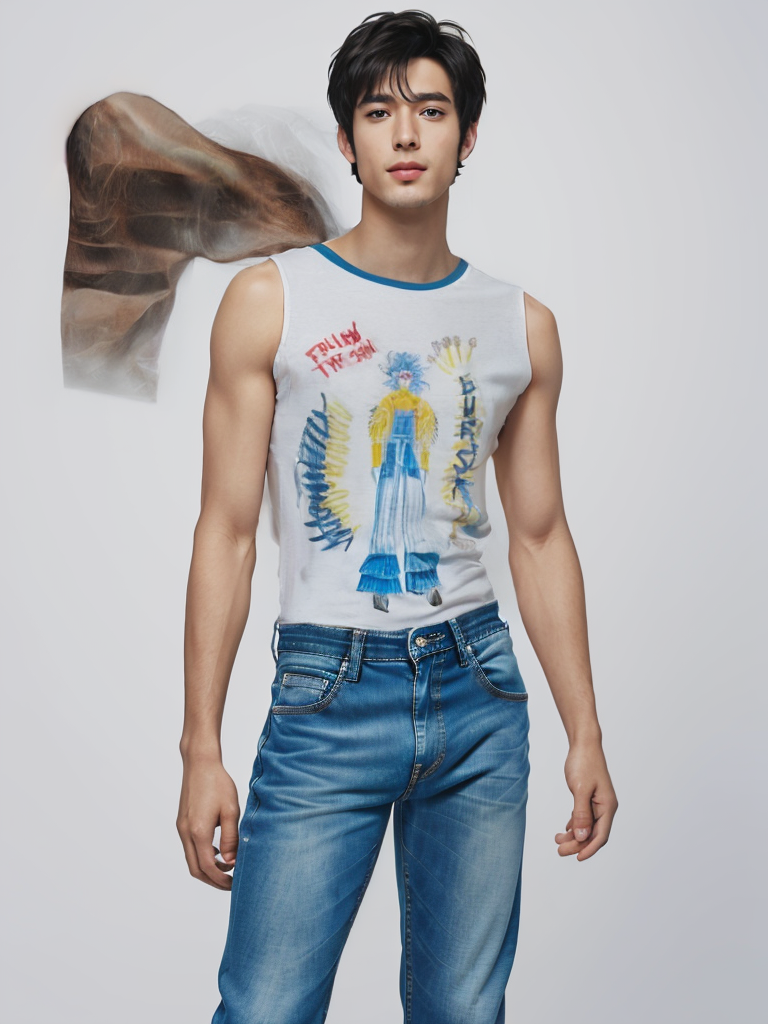
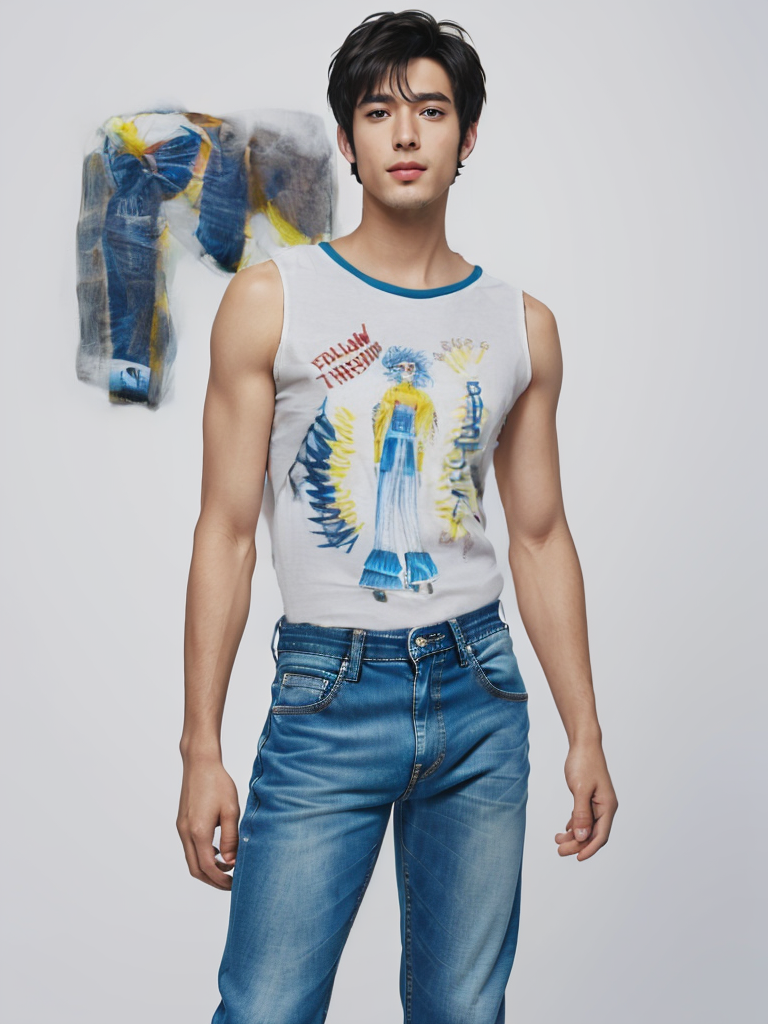
fix: spatial prior masking to eliminate background artifacts

Changed region(s): [[0.0625, 0.0625, 0.6875, 0.625], [0.4062, 0.5938, 0.4375, 0.625], [0.3438, 0.5938, 0.375, 0.625]]

diff --git a/wearcast/inference_wearcast_hd.py b/wearcast/inference_wearcast_hd.py
@@ -850,34 +850,67 @@ class WearCastHD:
         arms_draw_right = ImageDraw.Draw(im_arms_right)
 
         if category_norm in ('upper_body', 'dresses'):
-            # IMPORTANT: Calculate scale based on the actual height of model_parse (source image)
-            # instead of hardcoding 512.0. This fixes the pose-offset bug.
-            source_height = model_parse.height
-            scale_factor = height / float(source_height)
+            # IMPORTANT: pose_data is generated from a 1024px height image.
+            # model_parse was just resized to 512px height above.
+            # We MUST scale the 1024px pose coordinates down to the 512px mask space.
+            scale_factor = model_parse.height / 1024.0
+            
+            shoulder_right = np.multiply(tuple(pose_data[2][:2]), scale_factor)
+            shoulder_left  = np.multiply(tuple(pose_data[5][:2]), scale_factor)
+            elbow_right    = np.multiply(tuple(pose_data[3][:2]), scale_factor)
+            elbow_left     = np.multiply(tuple(pose_data[6][:2]), scale_factor)
+            wrist_right    = np.multiply(tuple(pose_data[4][:2]), scale_factor)
+            wrist_left     = np.multiply(tuple(pose_data[7][:2]), scale_factor)
+            neck           = np.multiply(tuple(pose_data[1][:2]), scale_factor)
+            hip_r          = np.multiply(tuple(pose_data[8][:2]), scale_factor)
+            hip_l          = np.multiply(tuple(pose_data[11][:2]), scale_factor)
             
             # ------------------------------------------------------------------
             # Torso-Centric Blob Filtering (BEFORE Dilation)
-            # Includes Morphological Opening to sever weak bridges to floating background objects
+            # Includes Spatial Prior Masking to physically sever thick background connections
             # ------------------------------------------------------------------
             if category_norm in ('upper_body', 'dresses'):
                 parse_mask_uint8 = (parse_mask > 0).astype(np.uint8)
                 
-                # Erode to break thin bridges between shirt and background noise
-                kernel_erode = np.ones((15, 15), np.uint8)
-                eroded_mask = cv2.erode(parse_mask_uint8, kernel_erode, iterations=1)
+                # --- 1. Create Spatial Prior Mask based on OpenPose Skeleton ---
+                spatial_prior = np.zeros_like(parse_mask_uint8)
+                
+                # If hips are missing, estimate them at the bottom of the image
+                h_r = hip_r if hip_r[0] > 1 else np.array([shoulder_right[0], model_parse.height])
+                h_l = hip_l if hip_l[0] > 1 else np.array([shoulder_left[0], model_parse.height])
+                
+                # Draw Torso Polygon
+                pts = np.array([neck, shoulder_right, h_r, h_l, shoulder_left], np.int32)
+                cv2.fillPoly(spatial_prior, [pts.reshape((-1, 1, 2))], 1)
+                
+                # Draw thick arms to protect sleeves
+                def draw_arm(p1, p2):
+                    if p1[0] > 1 and p2[0] > 1:
+                        cv2.line(spatial_prior, (int(p1[0]), int(p1[1])), (int(p2[0]), int(p2[1])), 1, thickness=20)
+                
+                draw_arm(shoulder_right, elbow_right)
+                draw_arm(elbow_right, wrist_right)
+                draw_arm(shoulder_left, elbow_left)
+                draw_arm(elbow_left, wrist_left)
+                
+                # Dilate the prior to cover loose clothing without reaching far background noise
+                spatial_prior = cv2.dilate(spatial_prior, np.ones((40, 40), np.uint8), iterations=1)
+                
+                # Apply Spatial Prior to physically sever any far-away background noise
+                physically_severed_mask = np.logical_and(parse_mask_uint8, spatial_prior).astype(np.uint8)
+                
+                # --- 2. Morphological Erosion to break any remaining thin bridges ---
+                kernel_erode = np.ones((10, 10), np.uint8)
+                eroded_mask = cv2.erode(physically_severed_mask, kernel_erode, iterations=1)
                 
                 num_labels, labels, stats, centroids = cv2.connectedComponentsWithStats(eroded_mask)
                 
                 if num_labels > 1:
                     # Target: Torso Center
-                    s_r = np.multiply(tuple(pose_data[2][:2]), scale_factor)
-                    s_l = np.multiply(tuple(pose_data[5][:2]), scale_factor)
-                    neck = np.multiply(tuple(pose_data[1][:2]), scale_factor)
-                    t_x = neck[0] if neck[0] > 1 else (s_r[0] + s_l[0]) / 2
-                    t_y = neck[1] if neck[1] > 1 else (s_r[1] + s_l[1]) / 2
+                    t_x = neck[0] if neck[0] > 1 else (shoulder_right[0] + shoulder_left[0]) / 2
+                    t_y = neck[1] if neck[1] > 1 else (shoulder_right[1] + shoulder_left[1]) / 2
                     
                     if t_y > 1:
-                        # Find blob with centroid closest to torso target
                         best_label = -1
                         min_dist = 999999
                         for i in range(1, num_labels):
@@ -888,20 +921,11 @@ class WearCastHD:
                                 best_label = i
                         
                         if best_label != -1:
-                            # Keep only the best blob
                             isolated_blob = (labels == best_label).astype(np.uint8)
-                            # Dilate back to restore original boundaries lost during erosion
                             isolated_blob = cv2.dilate(isolated_blob, kernel_erode, iterations=1)
-                            # Intersect with original mask to ensure we don't expand beyond original parsing
-                            parse_mask = np.logical_and(parse_mask_uint8, isolated_blob).astype(np.float32)
-                            print(f"   [MASK_GEN] Kept eroded blob #{best_label} (dist={min_dist:.1f}px) and severed background connections.")
-            
-            shoulder_right = np.multiply(tuple(pose_data[2][:2]), scale_factor)
-            shoulder_left  = np.multiply(tuple(pose_data[5][:2]), scale_factor)
-            elbow_right    = np.multiply(tuple(pose_data[3][:2]), scale_factor)
-            elbow_left     = np.multiply(tuple(pose_data[6][:2]), scale_factor)
-            wrist_right    = np.multiply(tuple(pose_data[4][:2]), scale_factor)
-            wrist_left     = np.multiply(tuple(pose_data[7][:2]), scale_factor)
+                            # Intersect with physically_severed_mask
+                            parse_mask = np.logical_and(physically_severed_mask, isolated_blob).astype(np.float32)
+                            print(f"   [MASK_GEN] Kept blob #{best_label} (dist={min_dist:.1f}px) using Spatial Prior.")
             ARM_LINE_WIDTH = int(arm_width / 512 * height)
 
             size_left  = [shoulder_left[0]  - ARM_LINE_WIDTH // 2, shoulder_left[1]  - ARM_LINE_WIDTH // 2,
